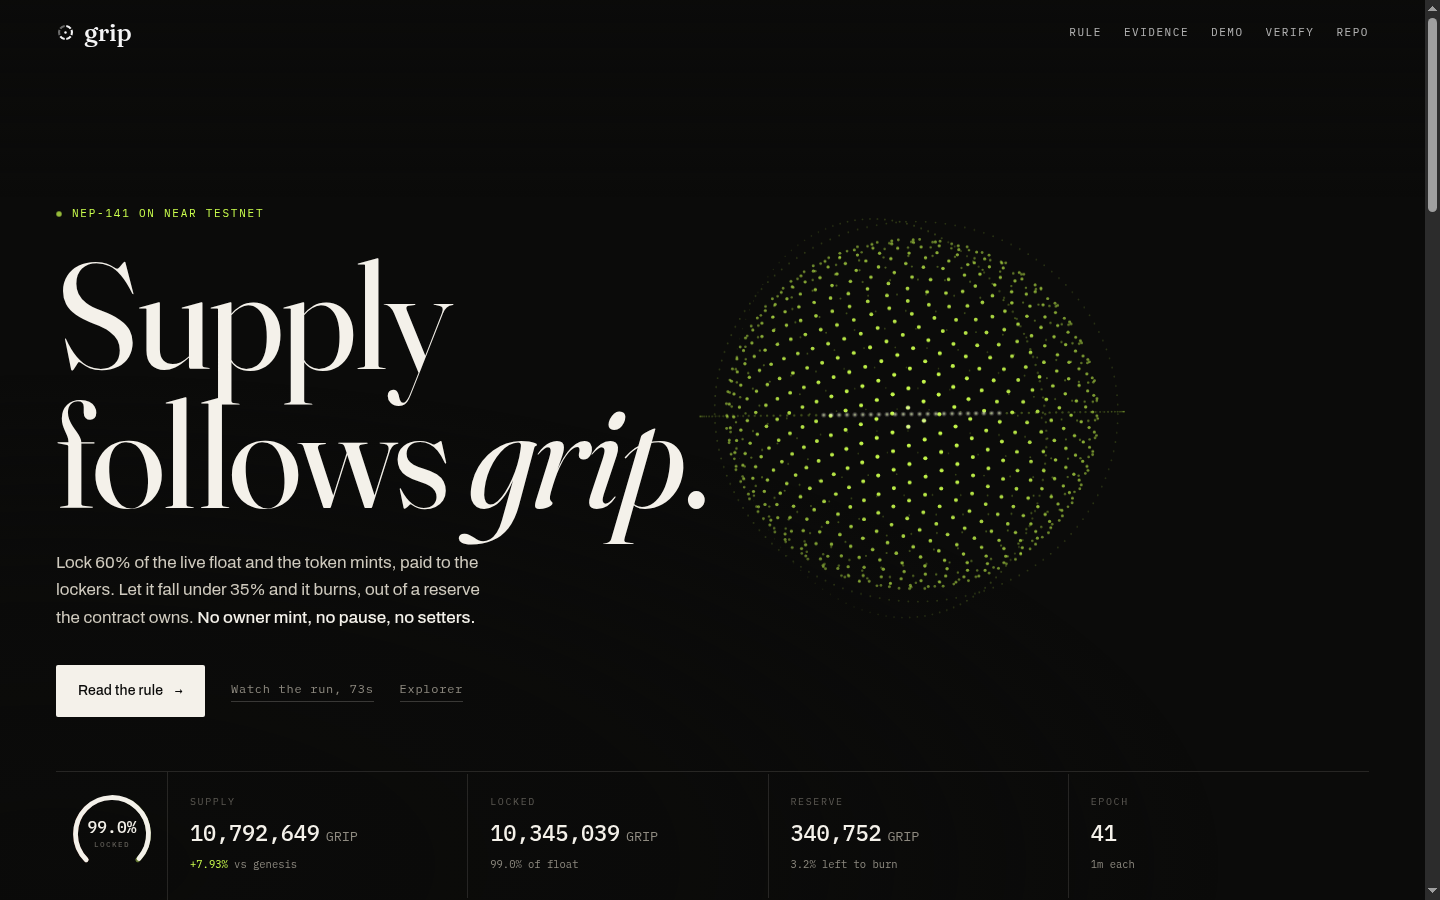
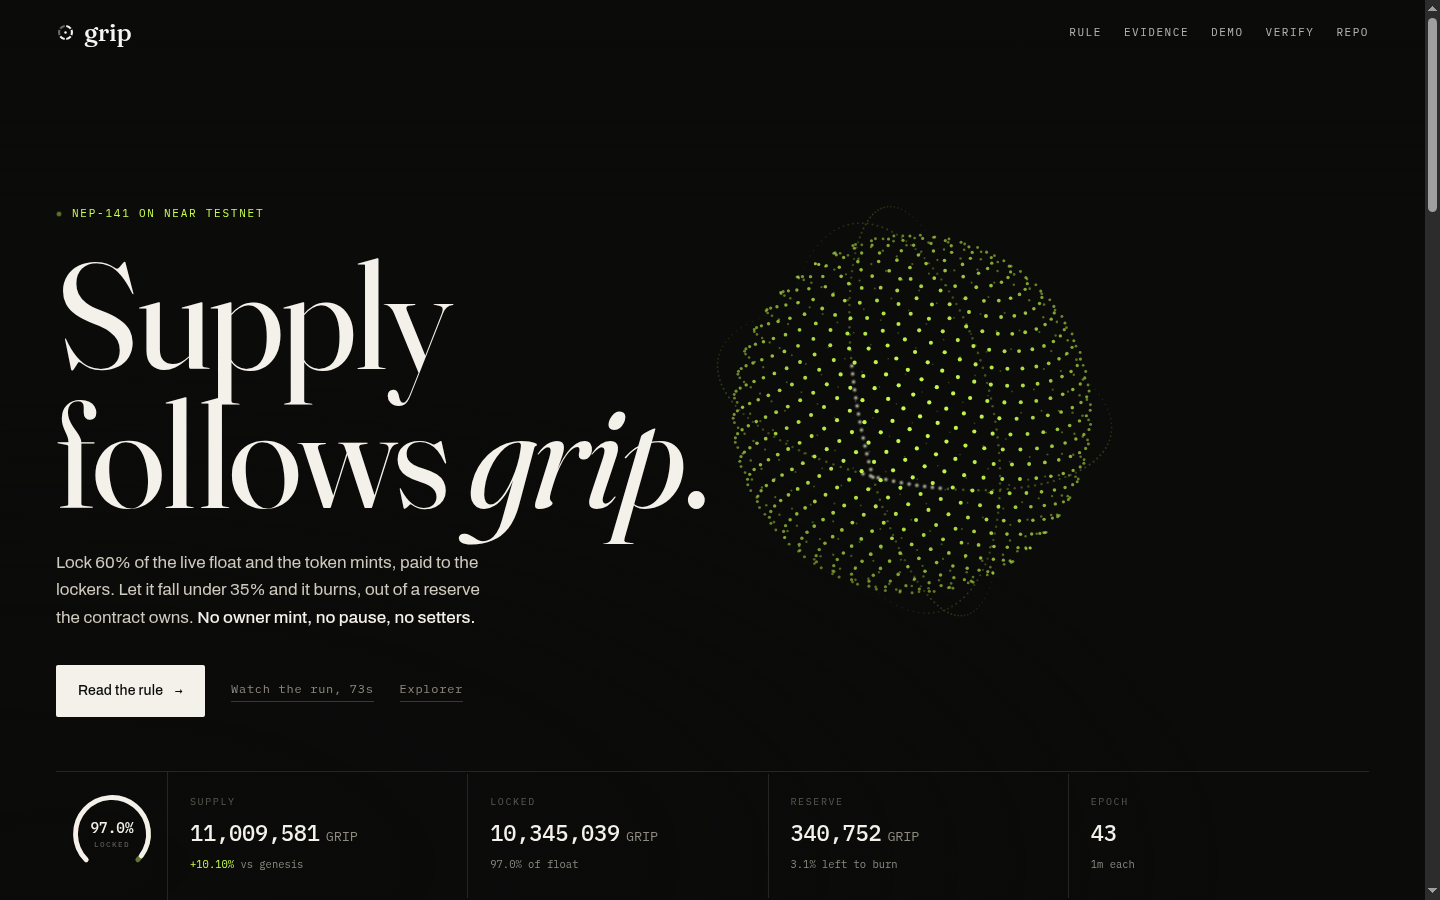
ui: CTA row wraps cleanly on phones, dial numerals clear the arc

Changed region(s): [[0.5, 0.2489, 0.7812, 0.6533], [0.125, 0.9022, 0.2188, 0.9644], [0.0625, 0.9022, 0.0938, 0.9333]]

diff --git a/docs/index.html b/docs/index.html
@@ -88,6 +88,9 @@
     }
     .stage{padding-top:88px}
     h1{max-width:11ch}
+    .actions{gap:14px 18px}
+    .btn{padding:13px 18px}
+    .txt{font-size:11.5px}
   }
 
   .kicker{
@@ -108,7 +111,8 @@
     color:#cfcabe;line-height:1.62;
   }
   .lede b{color:var(--ink);font-weight:500}
-  .actions{display:flex;align-items:center;gap:26px;margin-top:34px}
+  .actions{display:flex;align-items:center;gap:14px 26px;margin-top:34px;flex-wrap:wrap}
+  .btn,.txt{white-space:nowrap}
   .btn{
     display:inline-flex;align-items:center;gap:12px;
     background:var(--ink);color:#0b0b0a;border:0;border-radius:2px;
@@ -580,7 +584,7 @@
     mouseY += (targetMY - mouseY) * 0.05;
 
     cx0 = W * (W < 760 ? 0.5 : 0.64);
-    cy0 = H * (W < 760 ? 0.21 : 0.46);
+    cy0 = H * (W < 760 ? 0.185 : 0.46);
 
     const base = Math.min(W, H) * (W < 760 ? 0.23 : 0.31);
     const tight = 1.0 - 0.16 * gripNow;            // gripped: contracts
